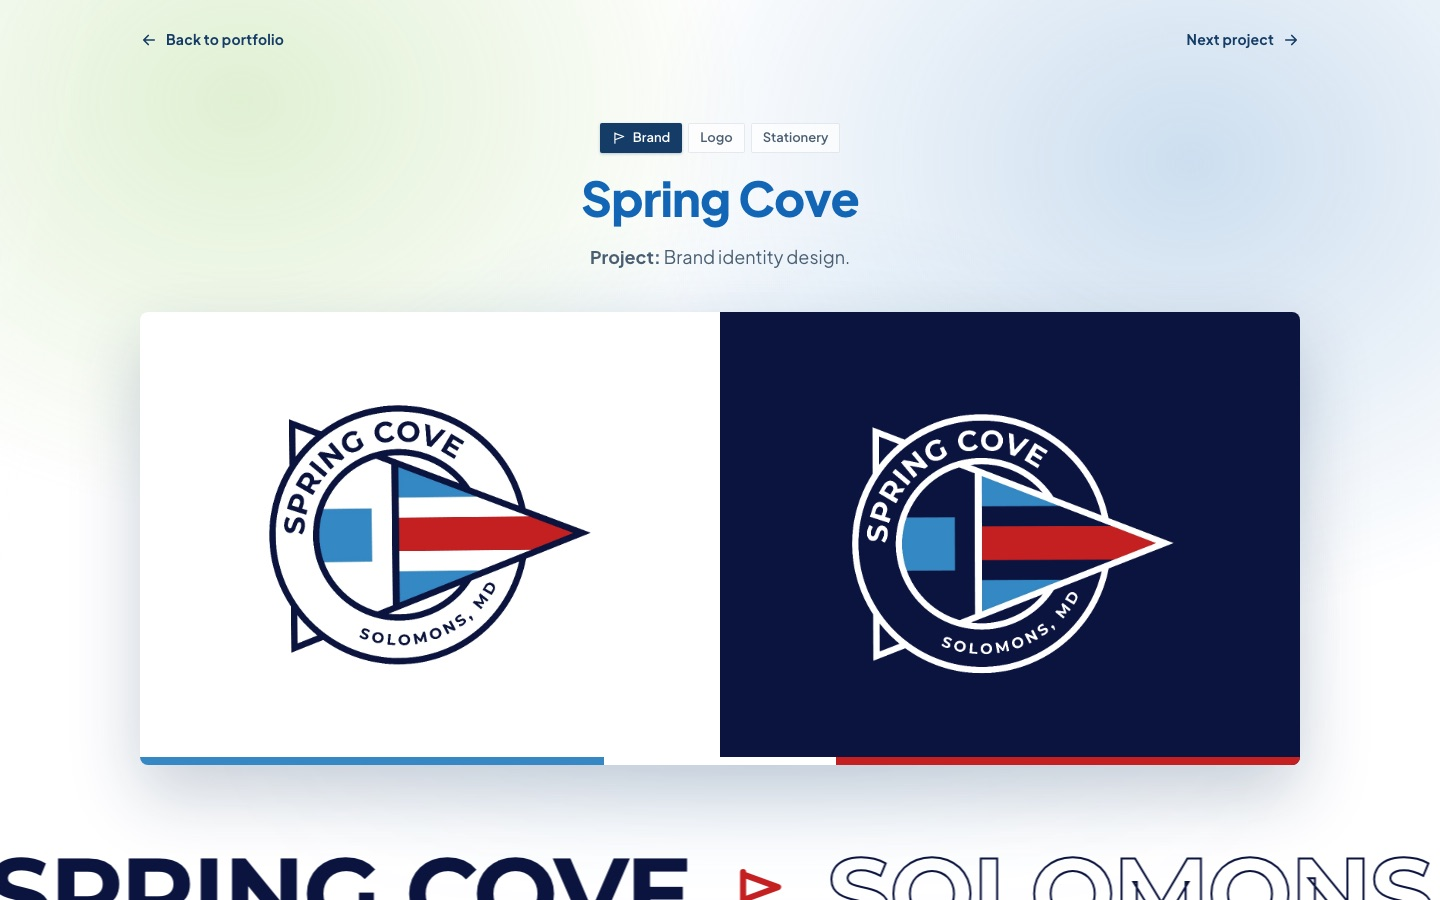
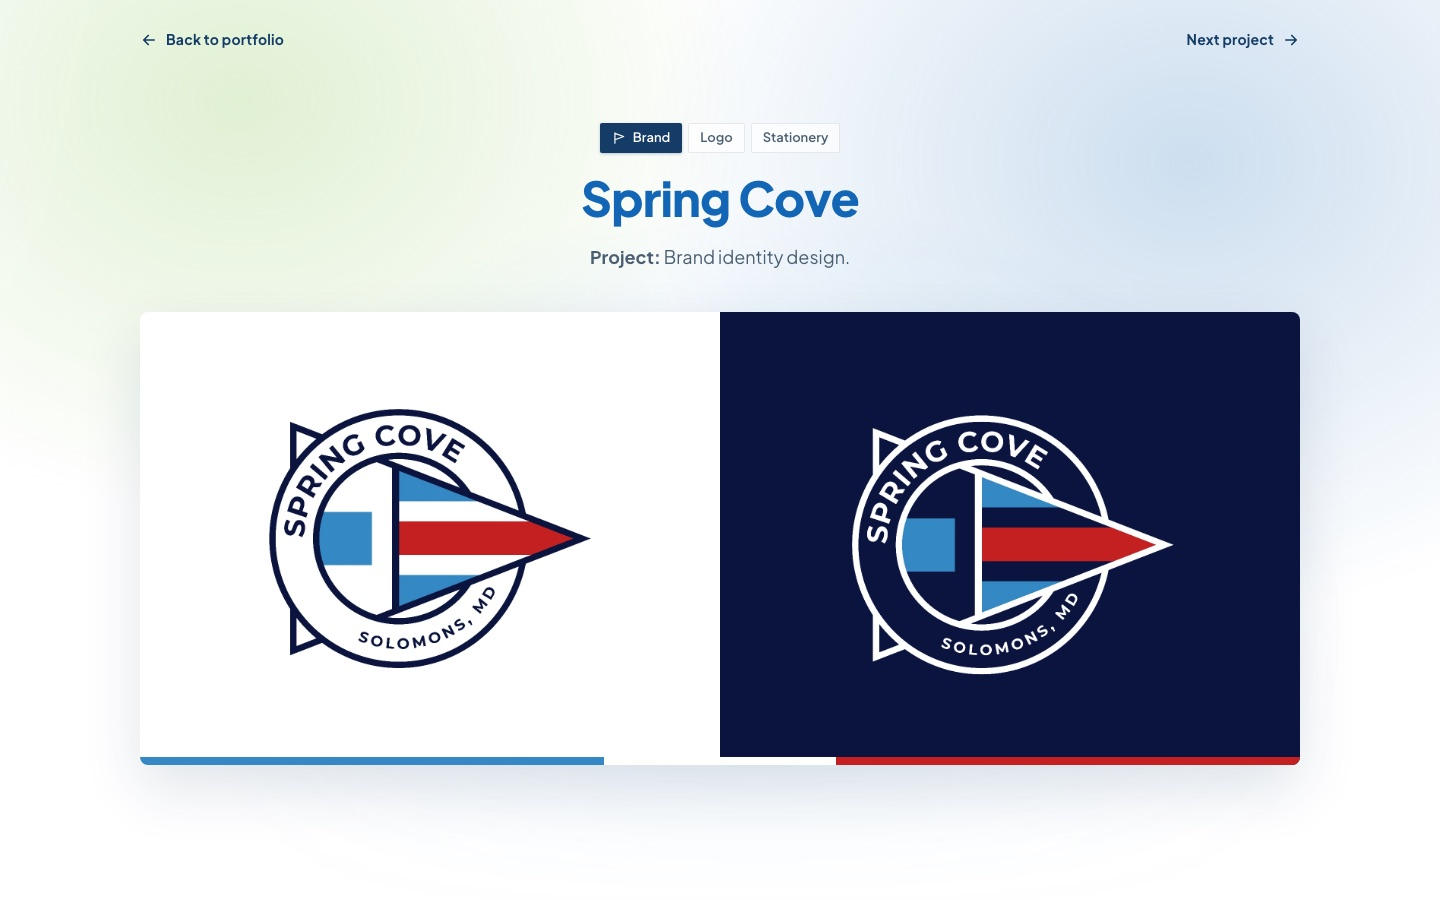
Option 7: back to the portfolio's own type and motion
Titles become the shared eyebrow labels, the palette and type use the
shared swatch and specimen, and the movement is the portfolio's: the
stage rises, blocks reveal, frames lift. The ticker, the reel, the
floating marks and the scroll zoom go.

diff --git a/css/option-7.css b/css/option-7.css
@@ -1,183 +1,113 @@
 /* Option 7 — Brand
-   For an identity, and titles only: every block is named by one big word
-   and the work does the rest. The page keeps moving — the mark slides in
-   on white and on navy and then floats, the name runs across the page, the
-   stationery zooms into place as it scrolls up, the cards roll past in a
-   reel, and the type breathes through its weights.
+   For an identity, with titles only. The mark opens on white and on navy,
+   then its versions, the stationery on the portfolio's blue, and the
+   palette and type as the guidelines set them. Each block is named by one
+   eyebrow, as in option 1, and moves only as the portfolio does: the stage
+   rises with the hero, blocks come up as they enter, and frames lift
+   under the pointer.
 
      STAGE       the mark on white and on navy, and the stripe under them
-     TICKER      the name, running across the page
-     TITLE       a block's only text
+     LABEL       a block's only text
      LOGOS       the four versions, each on its own ground
      DEEP        the blue band
-     PAIR        the two stationery pieces, zooming in on scroll
-     REEL        the run of cards, moving
-     COLOURS     the palette, as big blocks
+     PAIR        the two stationery pieces, and the strip under them
+     PALETTE     the client's colours, for the swatches
      TYPE        the Montserrat specimen
-     RESPONSIVE  where the grids fold, and where the movement stops
+     RESPONSIVE  where the grids fold
 
    Spring Cove's colours and face are the project's, not the portfolio's, so
-   they live here and not in the shared tokens. Everything that moves is
-   transform or opacity, save the specimen's weight; all of it stands still
-   under prefers-reduced-motion. */
+   they live here and not in the shared tokens. */
 
-/* ===== STAGE =====
-   The two grounds slide in from either side, the marks settle into them
-   and then float, out of step with each other, and the stripe draws
-   itself along the foot. */
-.o7-stage { position: relative; z-index: 2; padding: 8px 24px 0; }
+/* ===== STAGE ===== */
+.o7-stage { padding: 8px 24px 0; }
 .o7-hero {
   position: relative; display: grid; grid-template-columns: 1fr 1fr;
   border-radius: var(--r-card); overflow: hidden;
-  box-shadow: inset 0 0 0 1px rgba(20,60,102,.06), 0 30px 70px rgba(9,40,80,.22);
+  box-shadow: inset 0 0 0 1px rgba(20,60,102,.06), 0 24px 60px rgba(9,40,80,.12);
+  animation: iwRise .7s var(--ease-out) both; animation-delay: .2s;
 }
 .o7-hero__panel { display: grid; place-items: center; aspect-ratio: 1 / .78; padding: 8%; }
-.o7-hero__panel--light { background: #fff; animation: o7FromLeft .9s var(--ease-out) both; animation-delay: .15s; }
-.o7-hero__panel--navy { background: #0b143f; animation: o7FromRight .9s var(--ease-out) both; animation-delay: .15s; }
-.o7-hero__panel img {
-  width: 78%; height: auto;
-  animation: o7Settle 1s var(--ease-out) both, o7Float 6s ease-in-out 1.4s infinite alternate;
-  animation-delay: .45s, 1.4s;
-}
-.o7-hero__panel--navy img { animation-delay: .6s, 2.6s; }
+.o7-hero__panel--light { background: #fff; }
+.o7-hero__panel--navy { background: #0b143f; }
+.o7-hero__panel img { width: 78%; height: auto; }
 /* the pennant's three colours, in the order the stripes run */
-.o7-hero__stripe {
-  position: absolute; left: 0; right: 0; bottom: 0; display: grid; grid-template-columns: 2fr 1fr 2fr; height: 8px;
-  transform-origin: left; animation: o7Draw 1s var(--ease-out) both; animation-delay: .9s;
-}
+.o7-hero__stripe { position: absolute; left: 0; right: 0; bottom: 0; display: grid; grid-template-columns: 2fr 1fr 2fr; height: 8px; }
 .o7-hero__stripe i:nth-child(1) { background: #3588c4; }
 .o7-hero__stripe i:nth-child(2) { background: #fff; }
 .o7-hero__stripe i:nth-child(3) { background: #c42021; }
 
-@keyframes o7FromLeft { from { opacity: 0; transform: translateX(-40px); } to { opacity: 1; transform: none; } }
-@keyframes o7FromRight { from { opacity: 0; transform: translateX(40px); } to { opacity: 1; transform: none; } }
-@keyframes o7Settle { from { opacity: 0; transform: scale(.82) rotate(-8deg); } to { opacity: 1; transform: none; } }
-@keyframes o7Float { from { transform: translateY(0) rotate(0); } to { transform: translateY(-10px) rotate(-1.5deg); } }
-@keyframes o7Draw { from { transform: scaleX(0); } to { transform: scaleX(1); } }
-
-/* ===== TICKER ===== */
-.o7-ticker { overflow: hidden; margin-top: clamp(40px, 6vw, 72px); padding: 6px 0; }
-.o7-ticker__track {
-  display: flex; align-items: center; gap: clamp(20px, 3vw, 40px); width: max-content;
-  animation: o7Run 38s linear infinite;
-}
-.o7-ticker span {
-  font-family: 'Montserrat', sans-serif; font-weight: 700; font-size: clamp(44px, 7vw, 104px);
-  line-height: 1; letter-spacing: -.02em; text-transform: uppercase; color: #0b143f; white-space: nowrap;
-}
-.o7-ticker span.is-outline { color: transparent; -webkit-text-stroke: 2px #0b143f; }
-.o7-ticker__pin { width: clamp(30px, 4vw, 56px); height: clamp(30px, 4vw, 56px); flex-shrink: 0; fill: none; stroke: #c42021; stroke-width: 2.6; stroke-linecap: round; stroke-linejoin: round; }
-/* the track holds the line four times; moving it by half lands on an
-   identical frame, so the loop never shows its seam */
-@keyframes o7Run { from { transform: translateX(0); } to { transform: translateX(-50%); } }
-
-/* ===== TITLE ===== */
-.o7-title {
-  margin-bottom: clamp(24px, 4vw, 48px); text-align: center;
-  font-weight: 800; font-size: clamp(40px, 6vw, 80px); line-height: 1; letter-spacing: -2px; color: var(--navy);
-}
-.o7-title--light { color: #fff; }
+/* ===== LABEL =====
+   One small label, centred — the eyebrow, and nothing under it. */
+.o7-label { display: flex; justify-content: center; margin-bottom: clamp(20px, 3vw, 32px); }
+.o7-label .ip-eyebrow { margin: 0; }
+.o7-label--light .ip-eyebrow { color: rgba(226,238,252,.82); }
 
 /* ===== LOGOS ===== */
 .o7-logos { display: grid; grid-template-columns: repeat(4, minmax(0, 1fr)); gap: var(--gap); }
 .o7-logo {
-  display: grid; place-items: center; aspect-ratio: 1; padding: 14%; overflow: hidden;
+  display: grid; place-items: center; aspect-ratio: 1; padding: 14%;
   border-radius: var(--r-card); box-shadow: var(--shadow-card);
-  transition: transform .35s cubic-bezier(.2,.7,.3,1), box-shadow .35s ease;
+  transition: transform .28s cubic-bezier(.2,.7,.3,1), box-shadow .28s ease;
 }
-.o7-logo img { width: 100%; height: auto; transition: transform .6s cubic-bezier(.2,.7,.3,1); }
-.o7-logo:hover { transform: translateY(-8px); box-shadow: var(--shadow-card-hover); }
-.o7-logo:hover img { transform: scale(1.1) rotate(-6deg); }
+.o7-logo:hover { transform: translateY(-6px); box-shadow: var(--shadow-card-hover); }
+.o7-logo img { width: 100%; height: auto; }
 .o7-logo--white { background: #fff; box-shadow: inset 0 0 0 1px var(--line), var(--shadow-card); }
 .o7-logo--mist { background: #eef0f3; }
 .o7-logo--navy { background: #0b143f; }
 .o7-logo--cerulean { background: #3588c4; }
-.o7-logos figcaption { text-align: center; padding: 14px 0 0; font-size: var(--step-sm); font-weight: 700; color: var(--navy); }
-/* the tiles come up one after another, and from further down than the
-   shared reveal brings things */
-.o7-logos .rv { transform: translateY(48px) scale(.94); }
-.o7-logos .rv.in { transform: none; }
+.o7-logos figcaption { text-align: center; padding: 14px 0 0; font-size: var(--step-sm); font-weight: 600; color: var(--muted); }
+@media (prefers-reduced-motion: reduce) { .o7-logo:hover { transform: none; } }
 
 /* ===== DEEP =====
    The portfolio's own blue — the closing band's gradient — with the same
    dot grid. */
-.o7-deep { position: relative; overflow: hidden; color: #fff; background: var(--cta-band); }
+.o7-deep { position: relative; overflow: hidden; background: var(--cta-band); }
 .o7-deep::before { content: ''; position: absolute; inset: 0; pointer-events: none; background-image: radial-gradient(rgba(255,255,255,.06) 1px, transparent 1px); background-size: 24px 24px; }
 .o7-deep .iw-wrap { position: relative; }
 
 /* ===== PAIR =====
    The cards are square and the envelopes 3:2; at 1 : 1.25 across, a square
    tile and a 5:4 tile come out the same height, and the 5:4 crop still
-   holds both envelopes whole. The title rides on each tile as a chip. */
+   holds both envelopes whole. The title rides on each tile as the frosted
+   navy chip the photography uses. */
 .o7-pair { display: grid; grid-template-columns: 1fr 1.25fr; gap: var(--gap); }
 .o7-tile { position: relative; }
-.o7-tile .ip-shot__frame { position: relative; background: var(--navy-deep); box-shadow: 0 30px 70px rgba(0,0,0,.35); }
+.o7-tile .ip-shot__frame { box-shadow: 0 24px 60px rgba(0,0,0,.25); }
+.o7-tile .ip-shot__frame:hover { box-shadow: 0 30px 70px rgba(0,0,0,.32); }
 .o7-tile--cards .ip-shot__frame { aspect-ratio: 1; }
 .o7-tile--envelopes .ip-shot__frame { aspect-ratio: 5 / 4; }
-.o7-tile .ip-shot__frame img { height: 100%; object-fit: cover; transition: transform .6s cubic-bezier(.2,.7,.3,1); }
-.o7-tile .ip-shot__frame:hover img { transform: scale(1.05); }
+.o7-tile .ip-shot__frame img { height: 100%; object-fit: cover; }
 .o7-tile figcaption {
-  position: absolute; left: 18px; bottom: 18px; z-index: 2; pointer-events: none;
-  display: inline-flex; align-items: center; height: 34px; padding: 0 14px;
-  border-radius: var(--r); background: rgba(11,20,63,.82); color: #fff;
+  position: absolute; left: 16px; bottom: 16px; z-index: 2; pointer-events: none;
+  display: inline-flex; align-items: center; height: 30px; padding: 0 12px;
+  border-radius: var(--r); background: rgba(20,60,102,.82); color: #fff;
   -webkit-backdrop-filter: blur(7px); backdrop-filter: blur(7px);
-  font-size: 13.5px; font-weight: 700; letter-spacing: .2px;
+  font-size: 12.5px; font-weight: 700; letter-spacing: .2px;
+  transition: transform .28s cubic-bezier(.2,.7,.3,1);
 }
-/* Where the browser can tie an animation to scrolling, each photograph
-   starts zoomed in and settles to full frame as its tile rises into view.
-   Elsewhere it simply sits at full frame. */
-@supports (animation-timeline: view()) {
-  .o7-tile .ip-shot__frame img { animation: o7Zoom linear both; animation-timeline: view(); animation-range: entry 0% cover 45%; }
-  .o7-tile .ip-shot__frame:hover img { transform: none; }
-}
-@keyframes o7Zoom { from { transform: scale(1.22); } to { transform: scale(1); } }
+/* the chip rides up with the frame it sits on */
+.o7-tile:has(.ip-shot__frame:hover) figcaption { transform: translateY(-6px); }
+.o7-strip { margin-top: var(--gap); border-radius: var(--r-card); overflow: hidden; box-shadow: 0 24px 60px rgba(0,0,0,.25); }
+.o7-strip img { width: 100%; height: auto; }
+@media (prefers-reduced-motion: reduce) { .o7-tile:has(.ip-shot__frame:hover) figcaption { transform: none; } }
 
-/* ===== REEL =====
-   The strip of cards, full bleed, rolling the other way to the ticker. */
-.o7-reel { position: relative; margin-top: clamp(56px, 8vw, 112px); overflow: hidden; }
-.o7-reel__track { display: flex; width: max-content; animation: o7Run 60s linear infinite reverse; }
-.o7-reel img { height: clamp(180px, 20vw, 280px); width: auto; flex-shrink: 0; }
-.o7-reel:hover .o7-reel__track { animation-play-state: paused; }
-
-/* ===== COLOURS =====
-   The guidelines' three, as big as the page allows. Each rises and grows
-   from its foot as it comes into view. */
-.o7-colors { display: grid; grid-template-columns: 2fr 1.4fr 1fr; gap: var(--gap); }
-.o7-color {
-  display: flex; flex-direction: column; justify-content: flex-end; gap: 4px;
-  min-height: 320px; padding: 28px; border-radius: var(--r-card); color: #fff; box-shadow: var(--shadow-card);
-  transform-origin: bottom; transition: opacity .8s var(--ease-out), transform .8s var(--ease-out), box-shadow .3s ease;
-}
-.o7-colors .rv { transform: scaleY(.6); }
-.o7-colors .rv.in { transform: none; }
-.o7-colors .rv.in:hover { transform: translateY(-8px); box-shadow: var(--shadow-card-hover); }
-.o7-color b { font-family: 'Montserrat', sans-serif; font-weight: 700; font-size: clamp(24px, 2.4vw, 32px); letter-spacing: -.3px; }
-.o7-color span { font-size: 15px; font-weight: 700; letter-spacing: .08em; opacity: .85; }
-.o7-color--navy { background: #0b143f; }
-.o7-color--cerulean { background: #3588c4; }
-.o7-color--crimson { background: #c42021; }
+/* ===== PALETTE =====
+   The guidelines' three, in the shared swatch, a little taller. */
+.o7-swatches { grid-template-columns: repeat(3, minmax(0, 1fr)); gap: var(--gap); }
+.o7-swatches .ip-swatch i { height: 140px; }
+.o7-sw-navy { background: #0b143f; }
+.o7-sw-cerulean { background: #3588c4; }
+.o7-sw-crimson { background: #c42021; }
 
 /* ===== TYPE =====
-   The specimen breathes from Regular to Bold and back — Montserrat is
-   loaded as a variable face, so the weight moves through every step. */
-.o7-type {
-  display: grid; grid-template-columns: auto 1fr; gap: clamp(28px, 5vw, 72px); align-items: center;
-  padding: clamp(28px, 4vw, 56px); border-radius: var(--r-card); background: #fff; box-shadow: var(--shadow-card);
-}
-.o7-type__aa {
-  min-width: 2.1ch; font-family: 'Montserrat', sans-serif; font-weight: 400; font-size: clamp(110px, 15vw, 220px);
-  line-height: 1; letter-spacing: -.03em; color: #0b143f;
-  animation: o7Breathe 3.2s ease-in-out infinite alternate;
-}
-@keyframes o7Breathe { from { font-weight: 400; } to { font-weight: 700; } }
-.o7-type__name { font-family: 'Montserrat', sans-serif; font-weight: 700; font-size: clamp(30px, 3.4vw, 44px); letter-spacing: -.4px; color: #0b143f; }
-.o7-type__weights { margin-top: 18px; display: flex; flex-wrap: wrap; gap: 10px 28px; font-family: 'Montserrat', sans-serif; font-size: clamp(20px, 2vw, 26px); color: #3588c4; }
+   The shared specimen card, set in the client's face. */
+.ip-type--montserrat .ip-type__aa, .ip-type--montserrat .ip-type__weights { font-family: 'Montserrat', system-ui, sans-serif; }
+.o7-type { display: grid; grid-template-columns: auto 1fr; gap: clamp(24px, 4vw, 56px); align-items: center; }
+.o7-type .ip-type__aa { font-size: clamp(72px, 9vw, 120px); color: #0b143f; }
 
 /* ===== RESPONSIVE ===== */
 @media (max-width: 1100px) {
   .o7-logos { grid-template-columns: repeat(2, minmax(0, 1fr)); }
-  .o7-colors { grid-template-columns: 1fr 1fr; }
-  .o7-color--navy { grid-column: 1 / -1; }
 }
 @media (max-width: 720px) {
   .o7-stage { padding: 8px 16px 0; }
@@ -185,17 +115,11 @@
   .o7-hero { grid-template-columns: 1fr; }
   .o7-hero__panel img { width: 62%; }
   .o7-hero__stripe { height: 6px; }
-  .o7-ticker span.is-outline { -webkit-text-stroke-width: 1.5px; }
   .o7-logos { gap: 16px; }
   .o7-pair { grid-template-columns: 1fr; gap: 16px; }
-  .o7-colors { grid-template-columns: 1fr; gap: 16px; }
-  .o7-color { min-height: 160px; padding: 22px; }
+  .o7-strip { margin-top: 16px; }
+  .o7-swatches { gap: 12px; }
+  .o7-swatches .ip-swatch i { height: 96px; }
   .o7-type { grid-template-columns: 1fr; gap: 8px; }
 }
-@media (prefers-reduced-motion: reduce) {
-  .o7-hero__panel, .o7-hero__panel img, .o7-hero__stripe, .o7-ticker__track, .o7-reel__track, .o7-type__aa { animation: none !important; }
-  .o7-type__aa { font-weight: 700; }
-  .o7-tile .ip-shot__frame img { animation: none !important; }
-  .o7-logos .rv, .o7-colors .rv { transform: none; }
-  .o7-logo:hover, .o7-logo:hover img, .o7-colors .rv.in:hover, .o7-tile .ip-shot__frame:hover img { transform: none; }
-}
+@media (prefers-reduced-motion: reduce) { .o7-hero { animation: none; } }

diff --git a/option-7.html b/option-7.html
@@ -7,9 +7,9 @@
   <meta name="description" content="A brand identity for Spring Cove, a marina and boatyard in Solomons, Maryland: the pennant logo, its palette and type, business cards and envelopes — by ImageWorks Creative.">
   <link rel="preconnect" href="https://fonts.googleapis.com">
   <link rel="preconnect" href="https://fonts.gstatic.com" crossorigin>
-  <link href="https://fonts.googleapis.com/css2?family=Plus+Jakarta+Sans:ital,wght@0,400;0,500;0,600;0,700;0,800;1,400&family=Montserrat:wght@400..700&display=swap" rel="stylesheet">
+  <link href="https://fonts.googleapis.com/css2?family=Plus+Jakarta+Sans:ital,wght@0,400;0,500;0,600;0,700;0,800;1,400&family=Montserrat:wght@400;500;600;700&display=swap" rel="stylesheet">
   <link rel="stylesheet" href="css/styles.css?v=8">
-  <link rel="stylesheet" href="css/option-7.css?v=3">
+  <link rel="stylesheet" href="css/option-7.css?v=4">
 </head>
 <body>
 
@@ -67,21 +67,10 @@
     </div>
   </div>
 
-  <!-- ===== TICKER: the name, running =====
-       Two identical halves; the track moves by one half and starts over. -->
-  <div class="o7-ticker" aria-hidden="true">
-    <div class="o7-ticker__track">
-      <span>Spring Cove</span><svg class="o7-ticker__pin"><use href="#i-pennant"/></svg><span class="is-outline">Solomons, MD</span><svg class="o7-ticker__pin"><use href="#i-pennant"/></svg>
-      <span>Spring Cove</span><svg class="o7-ticker__pin"><use href="#i-pennant"/></svg><span class="is-outline">Solomons, MD</span><svg class="o7-ticker__pin"><use href="#i-pennant"/></svg>
-      <span>Spring Cove</span><svg class="o7-ticker__pin"><use href="#i-pennant"/></svg><span class="is-outline">Solomons, MD</span><svg class="o7-ticker__pin"><use href="#i-pennant"/></svg>
-      <span>Spring Cove</span><svg class="o7-ticker__pin"><use href="#i-pennant"/></svg><span class="is-outline">Solomons, MD</span><svg class="o7-ticker__pin"><use href="#i-pennant"/></svg>
-    </div>
-  </div>
-
   <!-- ===== LOGO: four versions ===== -->
   <section class="ip-section">
     <div class="iw-wrap">
-      <h2 class="o7-title rv">Logo</h2>
+      <h2 class="o7-label rv"><span class="ip-eyebrow">Logo</span></h2>
       <div class="o7-logos">
         <figure class="rv"><div class="o7-logo o7-logo--white"><img src="assets/springcove/logo-color.webp" width="1000" height="850" alt="Full-colour logo on white." loading="lazy"></div><figcaption>Full colour</figcaption></figure>
         <figure class="rv rv-d1"><div class="o7-logo o7-logo--mist"><img src="assets/springcove/logo-mono.webp" width="1000" height="850" alt="One-colour black logo on a pale grey ground." loading="lazy"></div><figcaption>One colour</figcaption></figure>
@@ -91,10 +80,10 @@
     </div>
   </section>
 
-  <!-- ===== STATIONERY: two pieces side by side, then the cards running ===== -->
+  <!-- ===== STATIONERY: two pieces side by side, then the run of cards ===== -->
   <section class="ip-section o7-deep">
     <div class="iw-wrap">
-      <h2 class="o7-title o7-title--light rv">Stationery</h2>
+      <h2 class="o7-label o7-label--light rv"><span class="ip-eyebrow">Stationery</span></h2>
       <div class="o7-pair">
         <figure class="ip-shot o7-tile o7-tile--cards rv">
           <button type="button" class="ip-shot__frame" data-zoom="assets/springcove/business-cards@2x.jpg" aria-label="Open the business cards full size"><img src="assets/springcove/business-cards.jpg" srcset="assets/springcove/business-cards.jpg 1600w, assets/springcove/business-cards@2x.jpg 2600w" sizes="(min-width: 4800px) 1308px, (min-width: 3600px) 1006px, (min-width: 2800px) 805px, (min-width: 2200px) 629px, (min-width: 1208px) 503px, (min-width: 721px) calc(44vw - 34px), calc(100vw - 32px)" width="1600" height="1600" alt="Both sides of the Spring Cove business card: the logo on a white disc over navy with a crimson and a cerulean arc, and the owner's name, address, marina and boatyard numbers in white on navy beside the pennant." loading="lazy"></button>
@@ -105,27 +94,20 @@
           <figcaption>Envelopes</figcaption>
         </figure>
       </div>
-    </div>
-
-    <!-- the run of cards, moving; the second pair repeats the first -->
-    <div class="o7-reel" aria-label="A run of Spring Cove business cards fanned out and stacked" role="img">
-      <div class="o7-reel__track">
-        <img src="assets/springcove/cards-strip.jpg" width="1920" height="407" alt="" loading="lazy">
-        <img src="assets/springcove/cards-strip.jpg" width="1920" height="407" alt="" loading="lazy">
-        <img src="assets/springcove/cards-strip.jpg" width="1920" height="407" alt="" loading="lazy">
-        <img src="assets/springcove/cards-strip.jpg" width="1920" height="407" alt="" loading="lazy">
-      </div>
+      <figure class="o7-strip rv">
+        <img src="assets/springcove/cards-strip.jpg" width="1920" height="407" alt="A run of Spring Cove business cards fanned out and stacked, fronts and backs mixed." loading="lazy">
+      </figure>
     </div>
   </section>
 
   <!-- ===== PALETTE ===== -->
   <section class="ip-section">
     <div class="iw-wrap">
-      <h2 class="o7-title rv">Palette</h2>
-      <div class="o7-colors">
-        <div class="o7-color o7-color--navy rv"><b>Navy</b><span>#0B143F</span></div>
-        <div class="o7-color o7-color--cerulean rv rv-d1"><b>Cerulean</b><span>#3588C4</span></div>
-        <div class="o7-color o7-color--crimson rv rv-d2"><b>Crimson</b><span>#C42021</span></div>
+      <h2 class="o7-label rv"><span class="ip-eyebrow">Palette</span></h2>
+      <div class="ip-swatches o7-swatches rv">
+        <div class="ip-swatch"><i class="o7-sw-navy"></i><b>Navy</b><span>#0B143F</span></div>
+        <div class="ip-swatch"><i class="o7-sw-cerulean"></i><b>Cerulean</b><span>#3588C4</span></div>
+        <div class="ip-swatch"><i class="o7-sw-crimson"></i><b>Crimson</b><span>#C42021</span></div>
       </div>
     </div>
   </section>
@@ -133,12 +115,12 @@
   <!-- ===== TYPE ===== -->
   <section class="ip-section ip-section--band">
     <div class="iw-wrap">
-      <h2 class="o7-title rv">Type</h2>
-      <div class="o7-type rv">
-        <div class="o7-type__aa" aria-hidden="true">Aa</div>
-        <div class="o7-type__body">
-          <div class="o7-type__name">Montserrat</div>
-          <div class="o7-type__weights">
+      <h2 class="o7-label rv"><span class="ip-eyebrow">Type</span></h2>
+      <div class="ip-type ip-type--montserrat o7-type rv">
+        <div class="ip-type__aa fw-700" aria-hidden="true">Aa</div>
+        <div>
+          <div class="ip-type__name">Montserrat</div>
+          <div class="ip-type__weights">
             <span class="fw-700">Bold</span>
             <span class="fw-600">SemiBold</span>
             <span class="fw-500">Medium</span>

diff --git a/index.html b/index.html
@@ -142,8 +142,8 @@
           <div class="ix-card__body">
             <span class="ip-eyebrow">Option 07</span>
             <h2>Brand</h2>
-            <p>For an identity, with titles only. The mark slides in and floats, the name runs across the page, the stationery zooms in as it scrolls up and the cards roll past in a reel.</p>
-            <ul><li>Animated logo stage, running name, four versions</li><li>Stationery on blue, a moving reel of cards</li><li>Palette blocks, a breathing type specimen</li></ul>
+            <p>For an identity, with titles only. The mark on white and on navy, its four versions, the stationery on the portfolio's blue, and the palette and type from the guidelines.</p>
+            <ul><li>Logo stage and four versions</li><li>Business cards and envelopes on blue</li><li>Palette and type specimen</li></ul>
             <span class="ip-link">Open option 7<svg class="ic" aria-hidden="true"><use href="#i-arrow-r"/></svg></span>
           </div>
           <a class="ip-cover" href="option-7.html" aria-label="Open option 7, brand"></a>

diff --git a/README.md b/README.md
@@ -14,7 +14,7 @@ Live: **https://imageworksc.github.io/individual-portfolio/**
 | [`option-3.html`](option-3.html) | **Showcase** — device stage, brief, facts in a row, five numbered feature rows, photography band | Casey Margenau Fine Homes & Estates |
 | [`option-4.html`](option-4.html) | **Simple** — category chips, the headline, and one full-page screenshot in a browser frame; no copy | Casey Margenau Fine Homes & Estates |
 | [`option-6.html`](option-6.html) | **Print** — a wide stage photograph of the brochure, a blue band with one large row per piece, the client palette, next-project band | Center for Vascular Medicine |
-| [`option-7.html`](option-7.html) | **Brand** — titles only, and in motion: the logo slides in and floats, the name runs across the page, four logo versions, business cards and envelopes that zoom in on scroll, a moving reel of cards, palette blocks, a breathing Montserrat specimen | Spring Cove |
+| [`option-7.html`](option-7.html) | **Brand** — titles only: the logo on white and navy, four logo versions, business cards and envelopes on a blue band, palette swatches, the Montserrat specimen, next-project band | Spring Cove |
 
 Every option opens with the portfolio's page wash, ends on its closing band,
 links back to the grid, and leads on to the next project.
